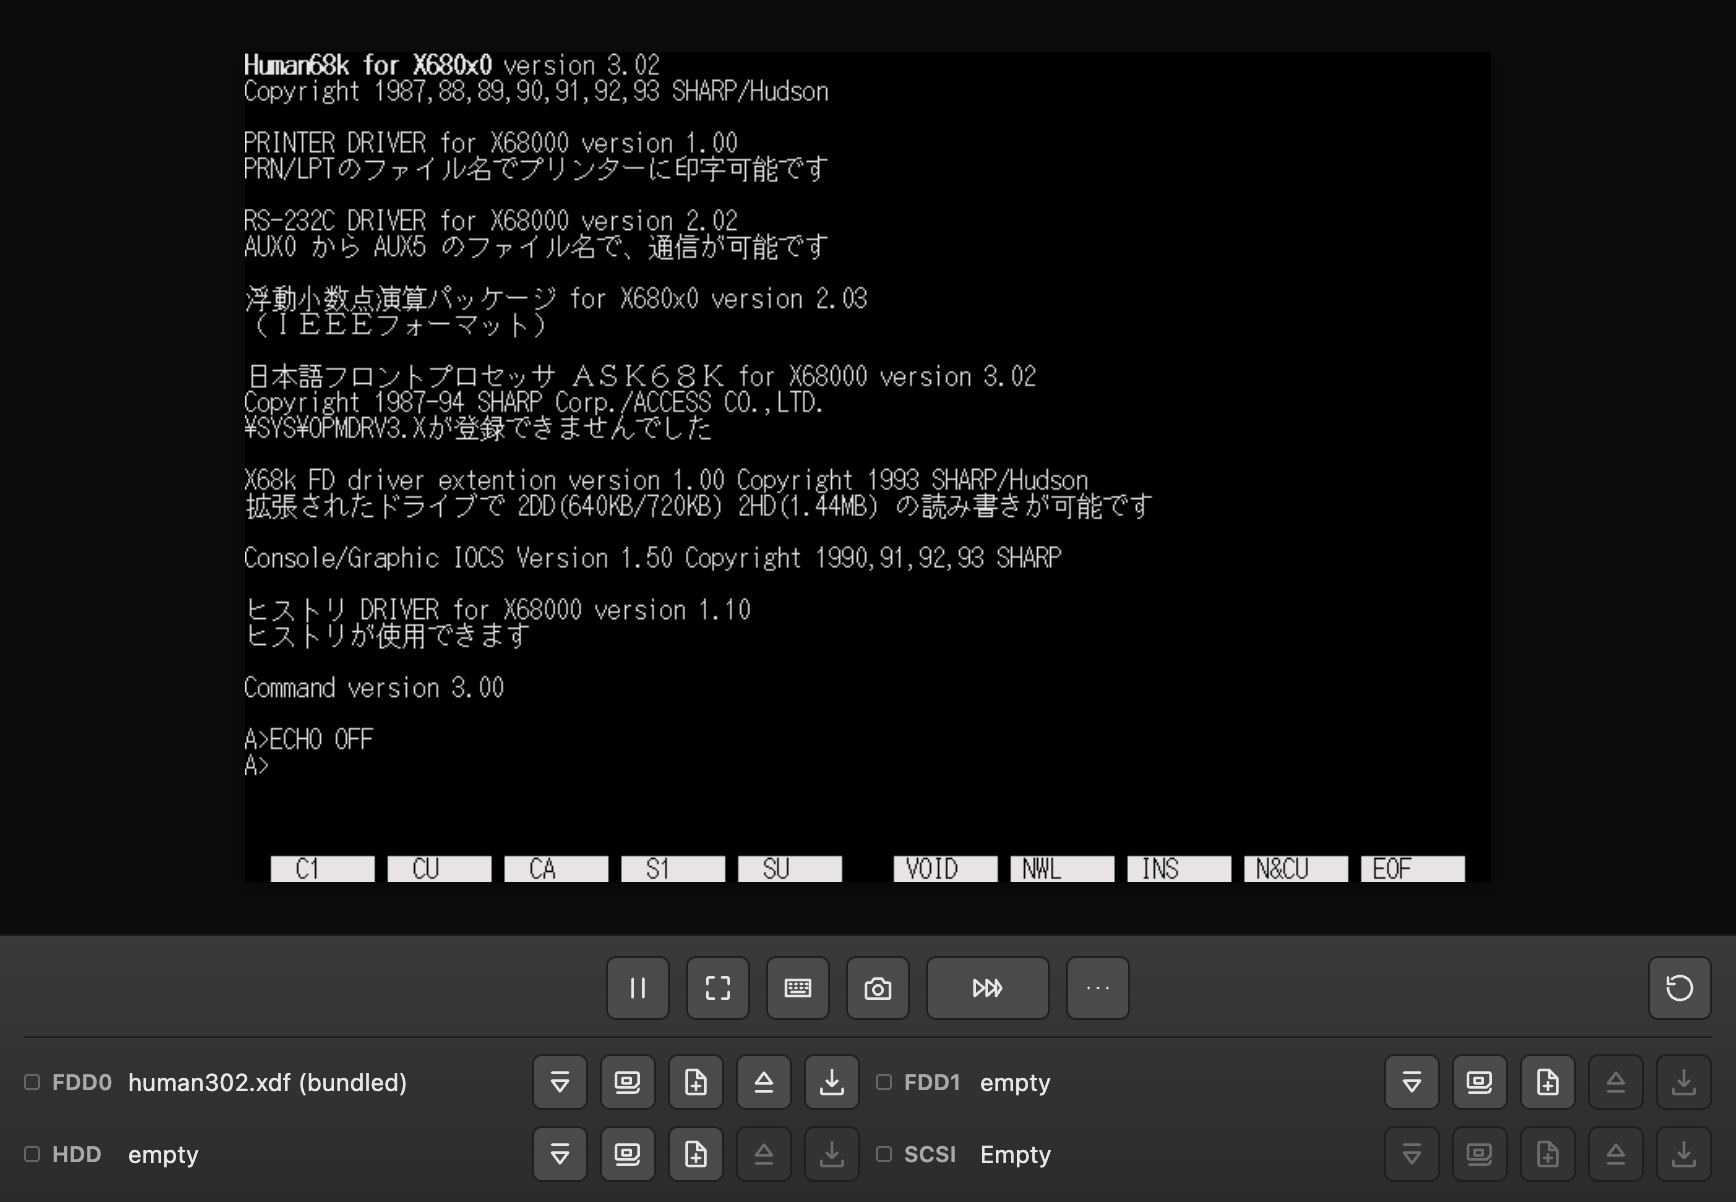
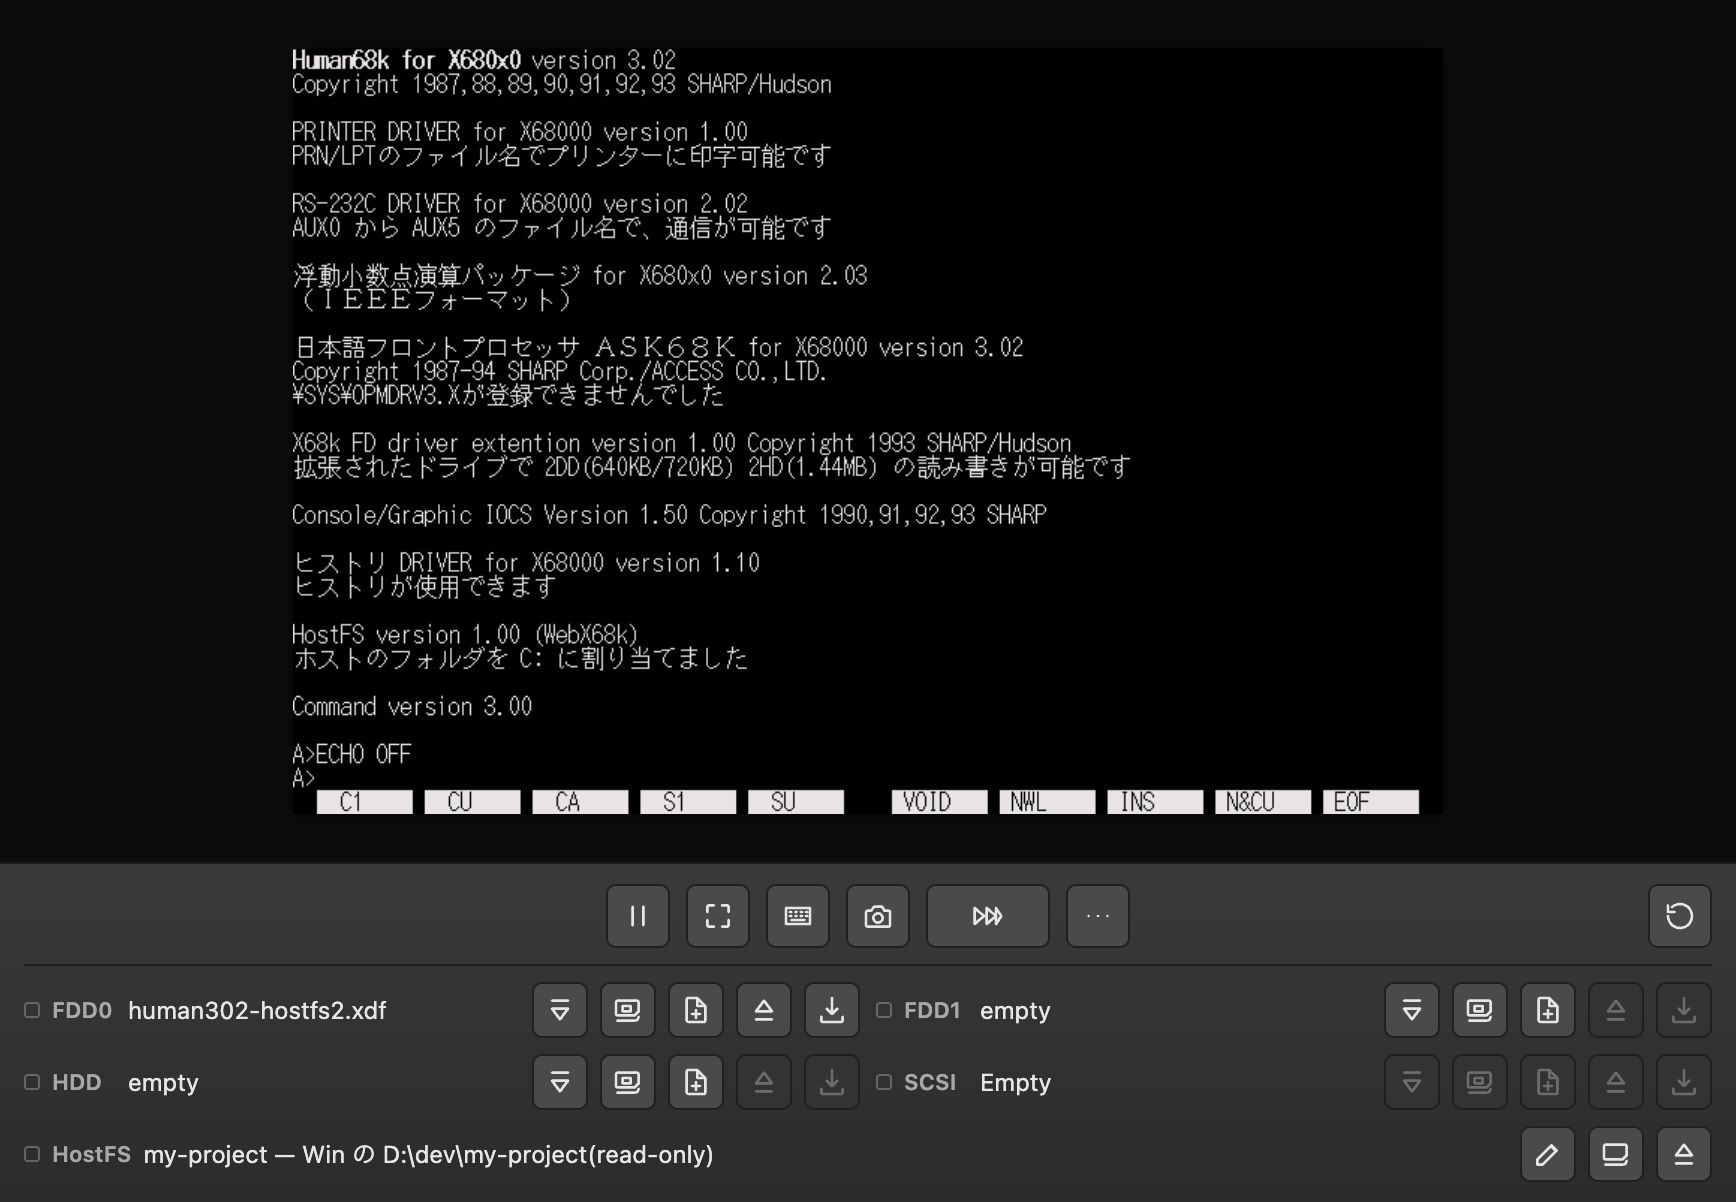
HostFS: 使い方ページ/README/DESIGNを仕上げ、スクリーンショットを撮り直し
- 名前変換の除外条件(拡張子4文字以上/ドットで始まる/使えない記号)、起動時の
  組み込みバナー文言、HDD/SCSI/HostFS各節への表示切替の案内をhelp.html・
  README(.ja).md・docs/DESIGN.mdに追記。
- capture-help-shots.mjsを拡張し、「つなぐ」ダイアログ(hostfs.png、新規)と、
  HostFSを組み込んだディスクで起動し覚え書きを付けたoverview、表示切替
  トグルが並ぶmenuを撮り直した。撮影専用にDEV限定URLパラメータ
  ?hostfsDirName=を追加(seedHostFsOpfsTest()、import.meta.env.DEV配下で
  distには残らないことを確認済み)。

diff --git a/public/help.html b/public/help.html
@@ -443,7 +443,10 @@
               ライブラリのダイアログ</strong>に落とした場合は、スロットには入れずライブラリへの
               登録だけを行います(挿入先はこれから選ぶ、という文脈のため)。
             </p>
-            <img src="./help/overview.png" alt="プレイヤー全体像。上部にツールバー、下部にFDD0/FDD1/HDD/SCSIのスロット行" />
+            <img
+              src="./help/overview.png"
+              alt="プレイヤー全体像。上部にツールバー、下部にFDD0/FDD1/HDD/SCSI/HostFSのスロット行。HostFS行にはフォルダ名と覚え書きが表示されている"
+            />
             <ul>
               <li>FDD対応拡張子: <code>.xdf</code> <code>.dim</code> <code>.d88</code> <code>.hdm</code> <code>.img</code> <code>.2hd</code></li>
               <li>HDD対応拡張子: <code>.hdf</code> <code>.dup</code></li>
@@ -490,7 +493,10 @@
               file(s) into the library without inserting into any slot, since opening the library
               means you're about to choose a destination yourself.
             </p>
-            <img src="./help/overview-en.png" alt="Player overview with the toolbar on top and FDD0/FDD1/HDD/SCSI slot rows below" />
+            <img
+              src="./help/overview-en.png"
+              alt="Player overview with the toolbar on top and FDD0/FDD1/HDD/SCSI/HostFS slot rows below; the HostFS row shows a folder name and a note"
+            />
             <ul>
               <li>FDD extensions: <code>.xdf</code> <code>.dim</code> <code>.d88</code> <code>.hdm</code> <code>.img</code> <code>.2hd</code></li>
               <li>HDD extensions: <code>.hdf</code> <code>.dup</code></li>
@@ -551,6 +557,11 @@
               (システムディスクで起動すると <code>C:</code> として認識されます)。
               いずれもHDDの作成・セットができるのは起動前だけです。
             </p>
+            <div class="note-box">
+              <strong>HDD行が見当たらないとき:</strong> ドライブ行のHDD(SASI)は既定で
+              非表示です。「…」メニューの「表示」グループの「HDD（SASI）を表示」トグルで
+              出せます(ディスクが入っていれば自動的に表示されます)。
+            </div>
           </div>
           <div class="lang-en">
             <h2>Disk Library</h2>
@@ -579,6 +590,11 @@
               Human68k from a floppy and use it as a data drive (the system disk picks it up as
               <code>C:</code>). Creating or setting a HDD is only possible before boot.
             </p>
+            <div class="note-box">
+              <strong>Don't see the HDD row?</strong> The HDD (SASI) drive row is hidden by
+              default. Show it from "Show HDD (SASI)" in the "Display" group of the "…" menu (it
+              also appears automatically whenever a disk is loaded).
+            </div>
           </div>
         </section>
 
@@ -591,6 +607,11 @@
               挿した状態で使えます。画面下部のSCSIスロット行へドラッグ&ドロップするか、
               挿入ボタン、または「ライブラリから挿入」から読み込ませます。
             </p>
+            <div class="note-box">
+              <strong>SCSI-HDD行が見当たらないとき:</strong> ドライブ行のSCSI-HDDは既定で
+              非表示です。「…」メニューの「表示」グループの「SCSI-HDDを表示」トグルで
+              出せます(ディスクが入っていれば自動的に表示されます)。
+            </div>
             <div class="note-box">
               <strong>SCSIからは起動できません。</strong> WebX68kのSCSI実装はHLE(高水準
               エミュレーション)で、SCSIボードROMの「起動エントリ」を実装していません。
@@ -637,6 +658,11 @@
               used at the same time. Drag & drop a file onto the SCSI slot row at the bottom of the
               player, use its insert button, or "Insert from Library".
             </p>
+            <div class="note-box">
+              <strong>Don't see the SCSI-HDD row?</strong> The SCSI-HDD drive row is hidden by
+              default. Show it from "Show SCSI-HDD" in the "Display" group of the "…" menu (it
+              also appears automatically whenever a disk is loaded).
+            </div>
             <div class="note-box">
               <strong>You can't boot from SCSI.</strong> WebX68k's SCSI implementation is HLE
               (high-level emulation) and doesn't implement the SCSI board ROM's "boot entry
@@ -689,6 +715,16 @@
               フォルダの中身をそのまま<code>dir</code>や<code>type</code>、コピーで
               扱えます。画面下部のSCSI行の下にある「HostFS」行から操作します。
             </p>
+            <img
+              src="./help/hostfs.png"
+              alt="「フォルダをつなぐ」ダイアログ。読み取り専用/書き込みも許可の選択ボタンと、覚え書き欄に記入した状態"
+            />
+            <div class="note-box">
+              <strong>HostFS行が見当たらないとき:</strong> ドライブ行のHostFSは既定で
+              非表示です。「…」メニューの「表示」グループの「HostFSを表示」トグルで
+              出せます(フォルダがつながっていれば、再接続待ちの状態でも自動的に
+              表示されます)。
+            </div>
             <ol>
               <li>
                 「つなぐ」ボタンを押すと、読み取り専用/書き込みも許可のどちらでつなぐか選ぶ
@@ -729,8 +765,11 @@
               <strong>「HostFSを組み込む」</strong>ボタンを押すと、その行のディスクへ
               自動的に<code>HOSTFS.SYS</code>を書き込み、CONFIG.SYSにこの行を追加します
               (すでにCONFIG.SYSがあれば末尾に追記、無ければ新規作成。同じ行が既にあれば
-              二重には追加しません)。起動すると、起動画面に実際に割り当てられた
-              ドライブ名(<code>C:</code>等)が案内表示されます。古い版のHOSTFS.SYSで
+              二重には追加しません)。起動すると、起動画面に
+              「<code>HostFS version 1.00 (WebX68k)</code>」
+              「<code>ホストのフォルダを C: に割り当てました</code>」のように、実際に
+              割り当てられたドライブ名(HDDがあれば<code>D:</code>等になることもあります)
+              が案内表示されます。古い版のHOSTFS.SYSで
               組み込み済みのディスクへ「HostFSを組み込む」を再度押すと、HOSTFS.SYS
               だけ新しい版に置き換わります(CONFIG.SYSの行は増えません)。
             </p>
@@ -751,8 +790,10 @@
             </p>
             <p>
               ホスト側のファイル名は、Human68kの8.3形式(名前8文字+拡張子3文字、ドットは
-              1つまで)に変換して見せます。18文字を超える名前、ドットが2つ以上ある名前、
-              CP932で表せない文字を含む名前は一覧に出ません。改行コードは変換せず、
+              1つまで)に変換して見せます。次のいずれかに当てはまる名前は一覧に出ません。
+              拡張子が4文字以上/名前が18バイト超(日本語は1文字2バイト)/ドットが2つ以上/
+              ドットで始まる/<code>" * + , / : ; &lt; = &gt; ? [ ] |</code>のいずれかを含む/
+              CP932で表せない文字を含む(空白は使えます)。改行コードは変換せず、
               ホスト上のバイト列をそのまま渡します。
             </p>
             <p>接続したフォルダのハンドルはブラウザに保存され、「再接続」で次回も使えます。</p>
@@ -779,8 +820,8 @@
               相対パス付き(<code>/サブフォルダ/名前</code>の形、1行に1つ)で確認できます
               (最大20行、それ以上は「ほかN件」)。あるフォルダをもう一度一覧すると、
               そのフォルダの分だけ最新の内容に入れ替わります。外れる条件は本節の
-              上記のとおり(名前が18バイト超、ドットが2つ以上、CP932で表せない文字を
-              含む、拡張子が4文字以上など)です。
+              上記のとおりです(拡張子が4文字以上/名前が18バイト超/ドットが2つ以上/
+              ドットで始まる/使えない記号を含む/CP932で表せない文字を含む)。
             </p>
           </div>
           <div class="lang-en">
@@ -791,6 +832,16 @@
               <code>dir</code>, <code>type</code>, and copy files straight out of that folder.
               Use the "HostFS" row below the SCSI row at the bottom of the player.
             </p>
+            <img
+              src="./help/hostfs-en.png"
+              alt="The 'Connect a folder' dialog: read-only / allow-writes choice buttons, with a note filled in"
+            />
+            <div class="note-box">
+              <strong>Don't see the HostFS row?</strong> The HostFS drive row is hidden by
+              default. Show it from "Show HostFS" in the "Display" group of the "…" menu (it also
+              appears automatically whenever a folder is connected, including a pending
+              reconnect).
+            </div>
             <ol>
               <li>
                 Click "Connect" — a dialog asks whether to connect read-only or with writes
@@ -828,8 +879,11 @@
               each disk library row (HDD, or an FD that can be handled as FAT12/16) writes
               <code>HOSTFS.SYS</code> to that disk and adds this line to CONFIG.SYS
               automatically (appended if CONFIG.SYS already exists, created new otherwise; it
-              won't be added twice if the line is already there). At boot, the startup screen
-              shows the drive letter that was actually assigned (e.g. <code>C:</code>). Pressing
+              won't be added twice if the line is already there). At boot, the startup screen shows
+              "<code>HostFS version 1.00 (WebX68k)</code>" followed by a Japanese line meaning
+              "host folder assigned to drive C:" (the driver's messages are Japanese regardless of
+              this page's language), naming the drive letter that was actually assigned — it can be
+              <code>D:</code>, etc., if an HDD is present. Pressing
               "Install HostFS" again on a disk that already has an older HOSTFS.SYS replaces just
               that file with the new version (the CONFIG.SYS line is not duplicated).
             </p>
@@ -851,9 +905,11 @@
             </p>
             <p>
               Host file names are converted to Human68k's 8.3 format (8-character name + 3-character
-              extension, at most one dot) before being shown. Names longer than 18 characters,
-              names with more than one dot, and names containing characters that can't be
-              represented in CP932 are omitted from listings. Line endings are not converted — the
+              extension, at most one dot) before being shown. A name is omitted from listings if
+              any of the following hold: extension is 4+ characters / name is over 18 bytes
+              (Japanese characters are 2 bytes each) / more than one dot / starts with a dot /
+              contains any of <code>" * + , / : ; &lt; = &gt; ? [ ] |</code> / contains a character
+              not representable in CP932 (spaces are fine). Line endings are not converted — the
               host's byte stream is passed through as-is.
             </p>
             <p>The connected folder's handle is remembered by the browser; use "Reconnect" next time.</p>
@@ -878,8 +934,9 @@
               to the connected folder (<code>/subfolder/name</code>, one per line; up to 20 lines,
               with "N more" beyond that). Listing a given folder again replaces just that folder's
               entries with the latest contents. The conditions for being dropped are the same as
-              described above in this section (name over 18 bytes, more than one dot, characters that
-              don't fit CP932, extension over 3 characters, etc.).
+              described above in this section (extension 4+ characters, name over 18 bytes, more
+              than one dot, starts with a dot, a disallowed symbol, or a character that doesn't fit
+              CP932).
             </p>
           </div>
         </section>

diff --git a/src/main.ts b/src/main.ts
@@ -629,9 +629,9 @@ async function tryReattachHostFsFolder(): Promise<void> {
  * - `opfs-test`    : 読み取り専用でATTACH(既定。読み取り専用モードの実地確認に使う)。
  * - `opfs-test-rw` : 書き込み可能でATTACH(W2b: 書き込みAPIの実地確認に使う)。
  */
-async function setupHostFsOpfsTest(mode: HostFsConnectMode): Promise<void> {
+async function setupHostFsOpfsTest(mode: HostFsConnectMode, dirName?: string): Promise<void> {
   try {
-    const handle = await seedHostFsOpfsTest();
+    const handle = await seedHostFsOpfsTest(dirName);
     hostFsHandle = handle;
     hostFsMode = mode;
     resetHostFsUiStatus();
@@ -852,6 +852,12 @@ const urlWorkerMode = parsedWorkerMode ?? true;
 // DEVビルド限定にする(本番で他人のOPFSに勝手にファイルを作ったり、本物のフォルダの
 // 代わりにFakeFsへ固定されては困るため)。
 const hostfsParamRaw = import.meta.env.DEV ? new URLSearchParams(location.search).get('hostfs') : null;
+// help.htmlのスクリーンショット撮影(scripts/capture-help-shots.mjs)専用: opfs-test/
+// opfs-test-rwが作るOPFSディレクトリの名前を、行に表示される名前として自然なものに
+// 差し替えたいときだけ渡す。上のhostfsParamRawと同じ理由でDEVビルド限定。
+const hostfsDirNameParam = import.meta.env.DEV
+  ? new URLSearchParams(location.search).get('hostfsDirName')
+  : null;
 // urlWorkerModeが確定した直後にHostFS行の初回描画を行う(TDZの都合。updateHostFsUi自体の
 // 定義箇所のコメント参照)。
 updateHostFsUi();
@@ -4551,9 +4557,9 @@ async function bootCore(): Promise<void> {
     (globalThis as Record<string, unknown>).__webx68kHostFsMode = hostfsParamRaw === 'fake' ? 'fake' : 'real';
     await bootWorkerCore();
     if (hostfsParamRaw === 'opfs-test') {
-      await setupHostFsOpfsTest('read');
+      await setupHostFsOpfsTest('read', hostfsDirNameParam ?? undefined);
     } else if (hostfsParamRaw === 'opfs-test-rw') {
-      await setupHostFsOpfsTest('readwrite');
+      await setupHostFsOpfsTest('readwrite', hostfsDirNameParam ?? undefined);
     } else {
       await tryReattachHostFsFolder();
     }

diff --git a/src/hostfs/opfs-test-seed.ts b/src/hostfs/opfs-test-seed.ts
@@ -28,12 +28,17 @@ function makeNumberedLines(totalBytes: number): string {
 }
 
 /**
- * OPFS の hostfs-test/ 配下へ検証用ファイル一式を作り、そのDirectoryHandleを返す。
+ * OPFS の hostfs-test/ (既定) 配下へ検証用ファイル一式を作り、そのDirectoryHandleを返す。
  * 既存のOPFS内容(前回実行分)は残っていてもよい(上書きされるため)。
+ *
+ * dirName: 使い方ページのスクリーンショット撮影用(`scripts/capture-help-shots.mjs`)に、
+ * 行に表示されるフォルダ名を`my-project`等の説明として自然な名前にしたいときだけ、
+ * DEV限定のURLパラメータ(`?hostfsDirName=`、`src/main.ts`参照)経由で渡す。
+ * 省略時は従来どおり`hostfs-test`。
  */
-export async function seedHostFsOpfsTest(): Promise<FileSystemDirectoryHandle> {
+export async function seedHostFsOpfsTest(dirName = 'hostfs-test'): Promise<FileSystemDirectoryHandle> {
   const opfsRoot = await navigator.storage.getDirectory();
-  const testRoot = await opfsRoot.getDirectoryHandle('hostfs-test', { create: true });
+  const testRoot = await opfsRoot.getDirectoryHandle(dirName, { create: true });
 
   await writeFile(testRoot, 'hello.txt', makeNumberedLines(3000));
   await writeFile(testRoot, 'readme.doc', 'HostFS opfs-test: readme.doc\r\n');

diff --git a/README.md b/README.md
@@ -210,6 +210,9 @@ drop targets).
   (boot code), so it can't boot on its own — boot Human68k from a floppy and
   use it as a data drive (confirmed on real hardware: booting the system
   disk picks it up as `C:`, and `DIR C:` reports "40779K Byte 使用可能").
+- **The HDD row is hidden by default.** Show it from "Show HDD (SASI)" in
+  the "Display" group of the "…" menu (it also appears automatically
+  whenever a disk is loaded).
 
 ### SCSI hard disk
 
@@ -246,6 +249,9 @@ be mounted at the same time.
   Worker holds an exclusive lock on it) or when it's **larger than 256MB**
   (the implementation loads the whole image into memory). A non-inserted
   SCSI image can still be read and written while running.
+- **The SCSI-HDD row is hidden by default.** Show it from "Show SCSI-HDD"
+  in the "Display" group of the "…" menu (it also appears automatically
+  whenever a disk is loaded).
 
 ### HostFS (expose a local folder as a drive)
 
@@ -277,14 +283,19 @@ controlled from the "HostFS" row below the SCSI row.
 - Supported on **Chrome-family browsers on PC and Android** (anything with
   `showDirectoryPicker`). **Not supported on iPhone (Safari) or Firefox.**
 - Host file names are converted to Human68k's 8.3 format (8-char name +
-  3-char extension, at most one dot); names over 18 characters, names with
-  more than one dot, or names containing characters not representable in
-  CP932 are omitted. Line endings are **not** converted — bytes are passed
-  through as-is.
+  3-char extension, at most one dot). A name is omitted if any of: extension
+  4+ characters, name over 18 bytes (Japanese characters are 2 bytes each),
+  more than one dot, starts with a dot, contains one of
+  `" * + , / : ; < = > ? [ ] |`, or contains a character not representable
+  in CP932 (spaces are fine). Line endings are **not** converted — bytes are
+  passed through as-is.
 - The "Install HostFS" button writes `HOSTFS.SYS` to the disk's root and
   adds `DEVICE = \HOSTFS.SYS` to `CONFIG.SYS` (appended if it exists,
   created new otherwise; it won't add the line twice). It's available on
-  HDD rows and FD rows that can be handled as FAT12/16.
+  HDD rows and FD rows that can be handled as FAT12/16. At boot, the guest
+  prints "`HostFS version 1.00 (WebX68k)`" followed by a Japanese line
+  meaning "host folder assigned to drive C:", naming whichever drive letter
+  was actually assigned (e.g. `D:` if a HDD is present).
 - **The bundled system disk (`human302.xdf`) is never modified** — pressing
   the button on its row makes a copy in the library first and installs
   onto that copy.
